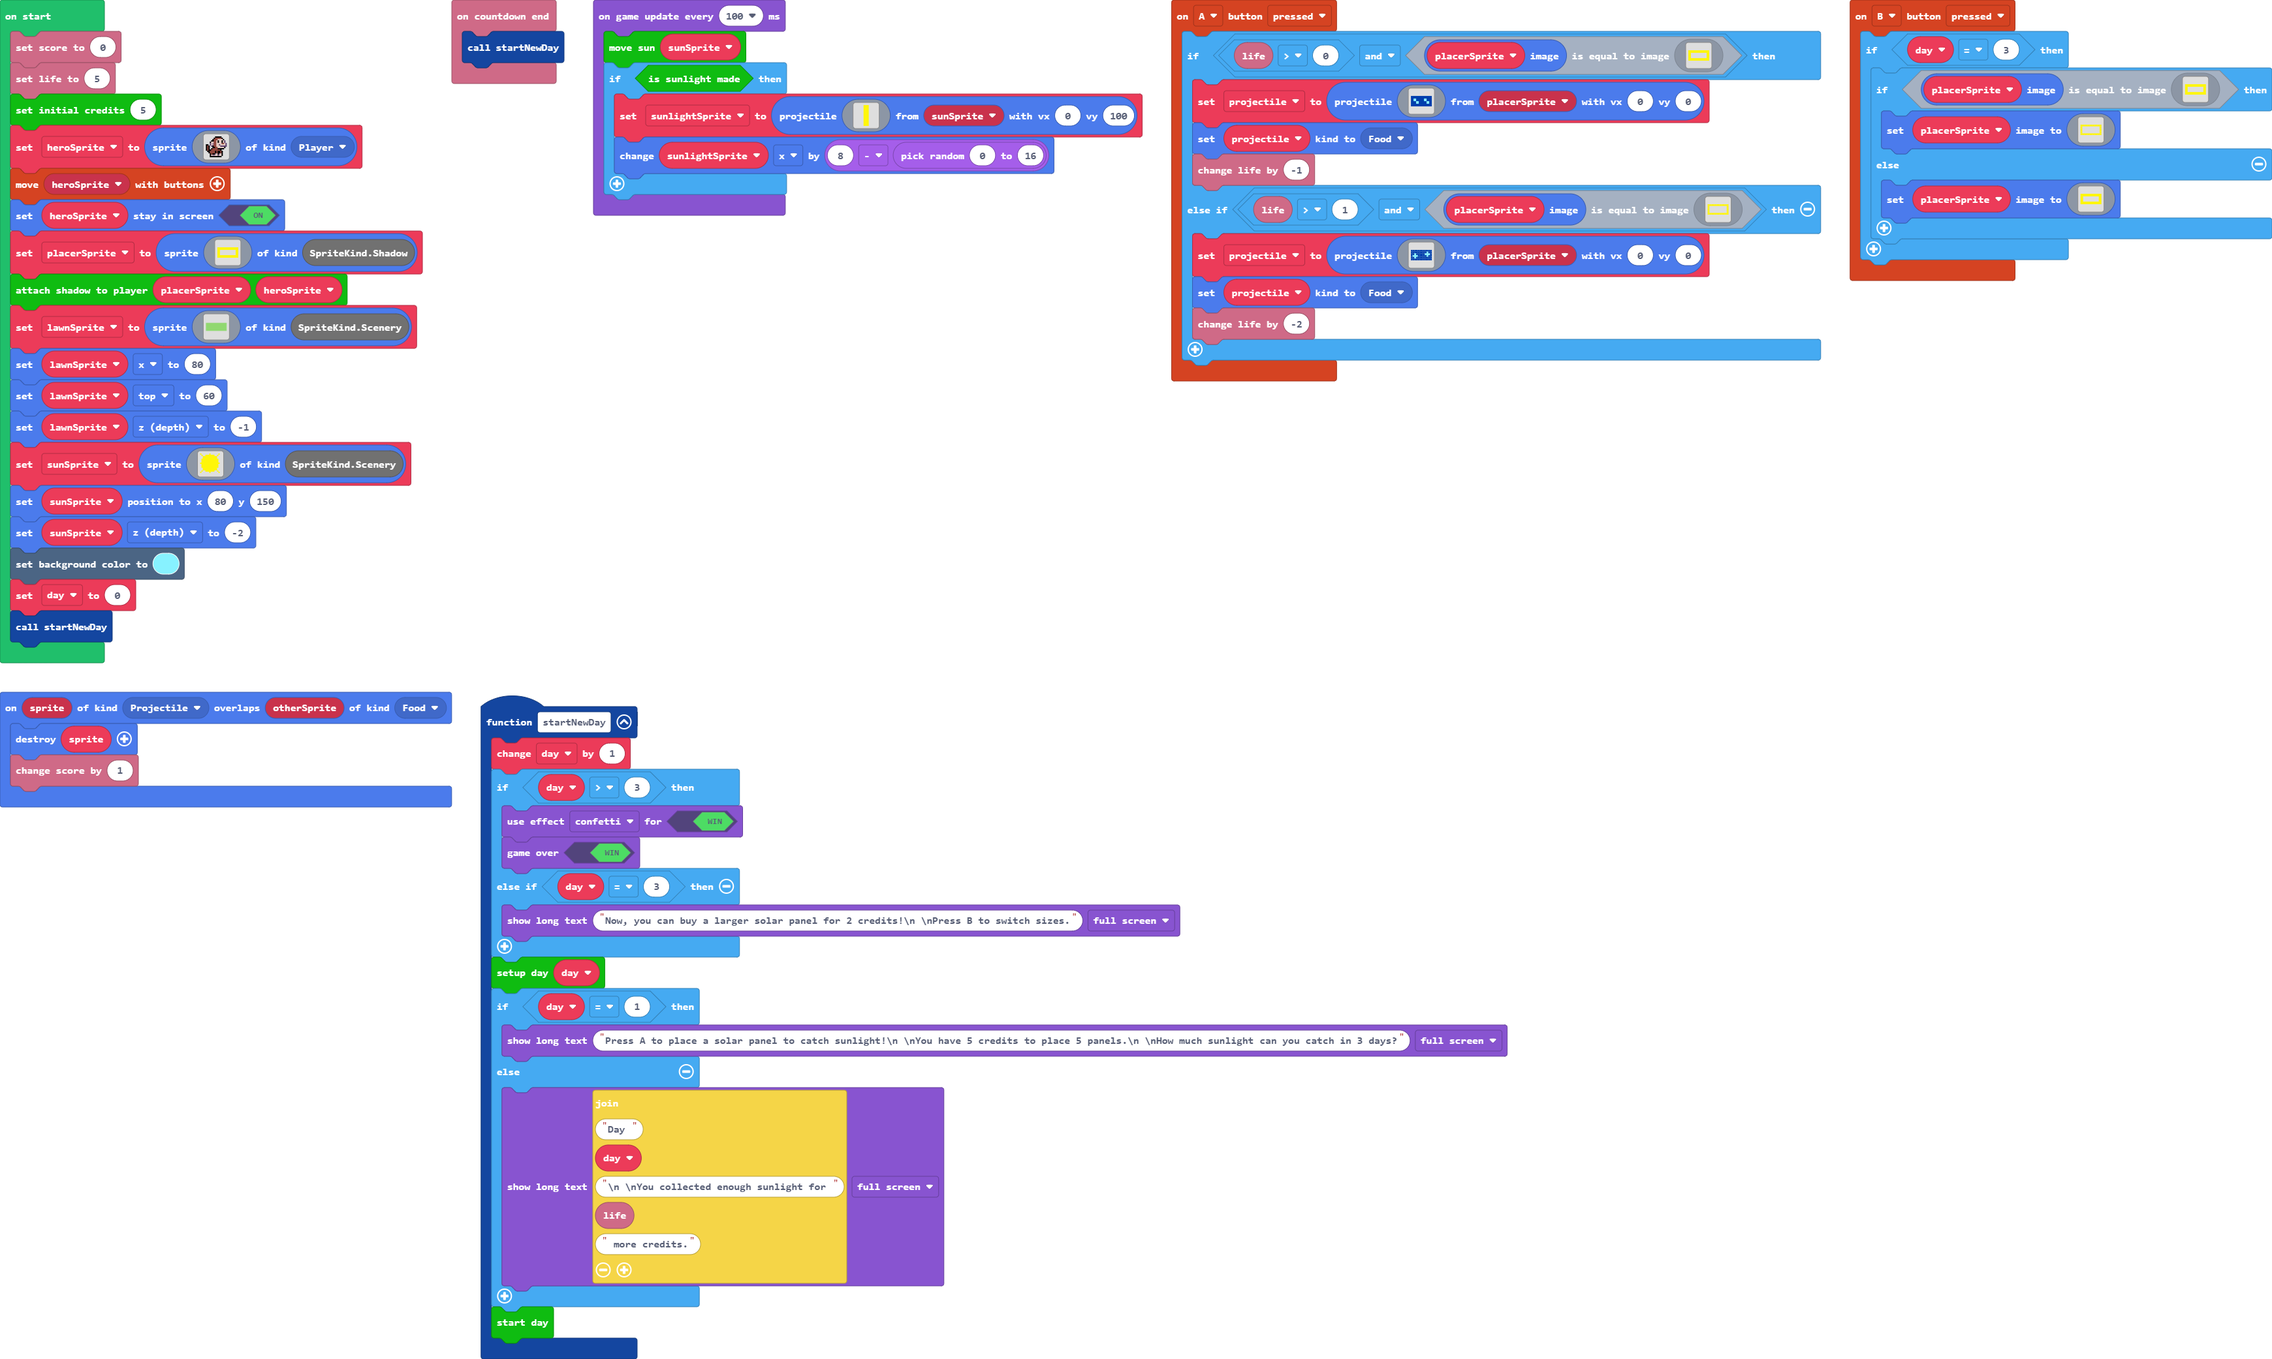
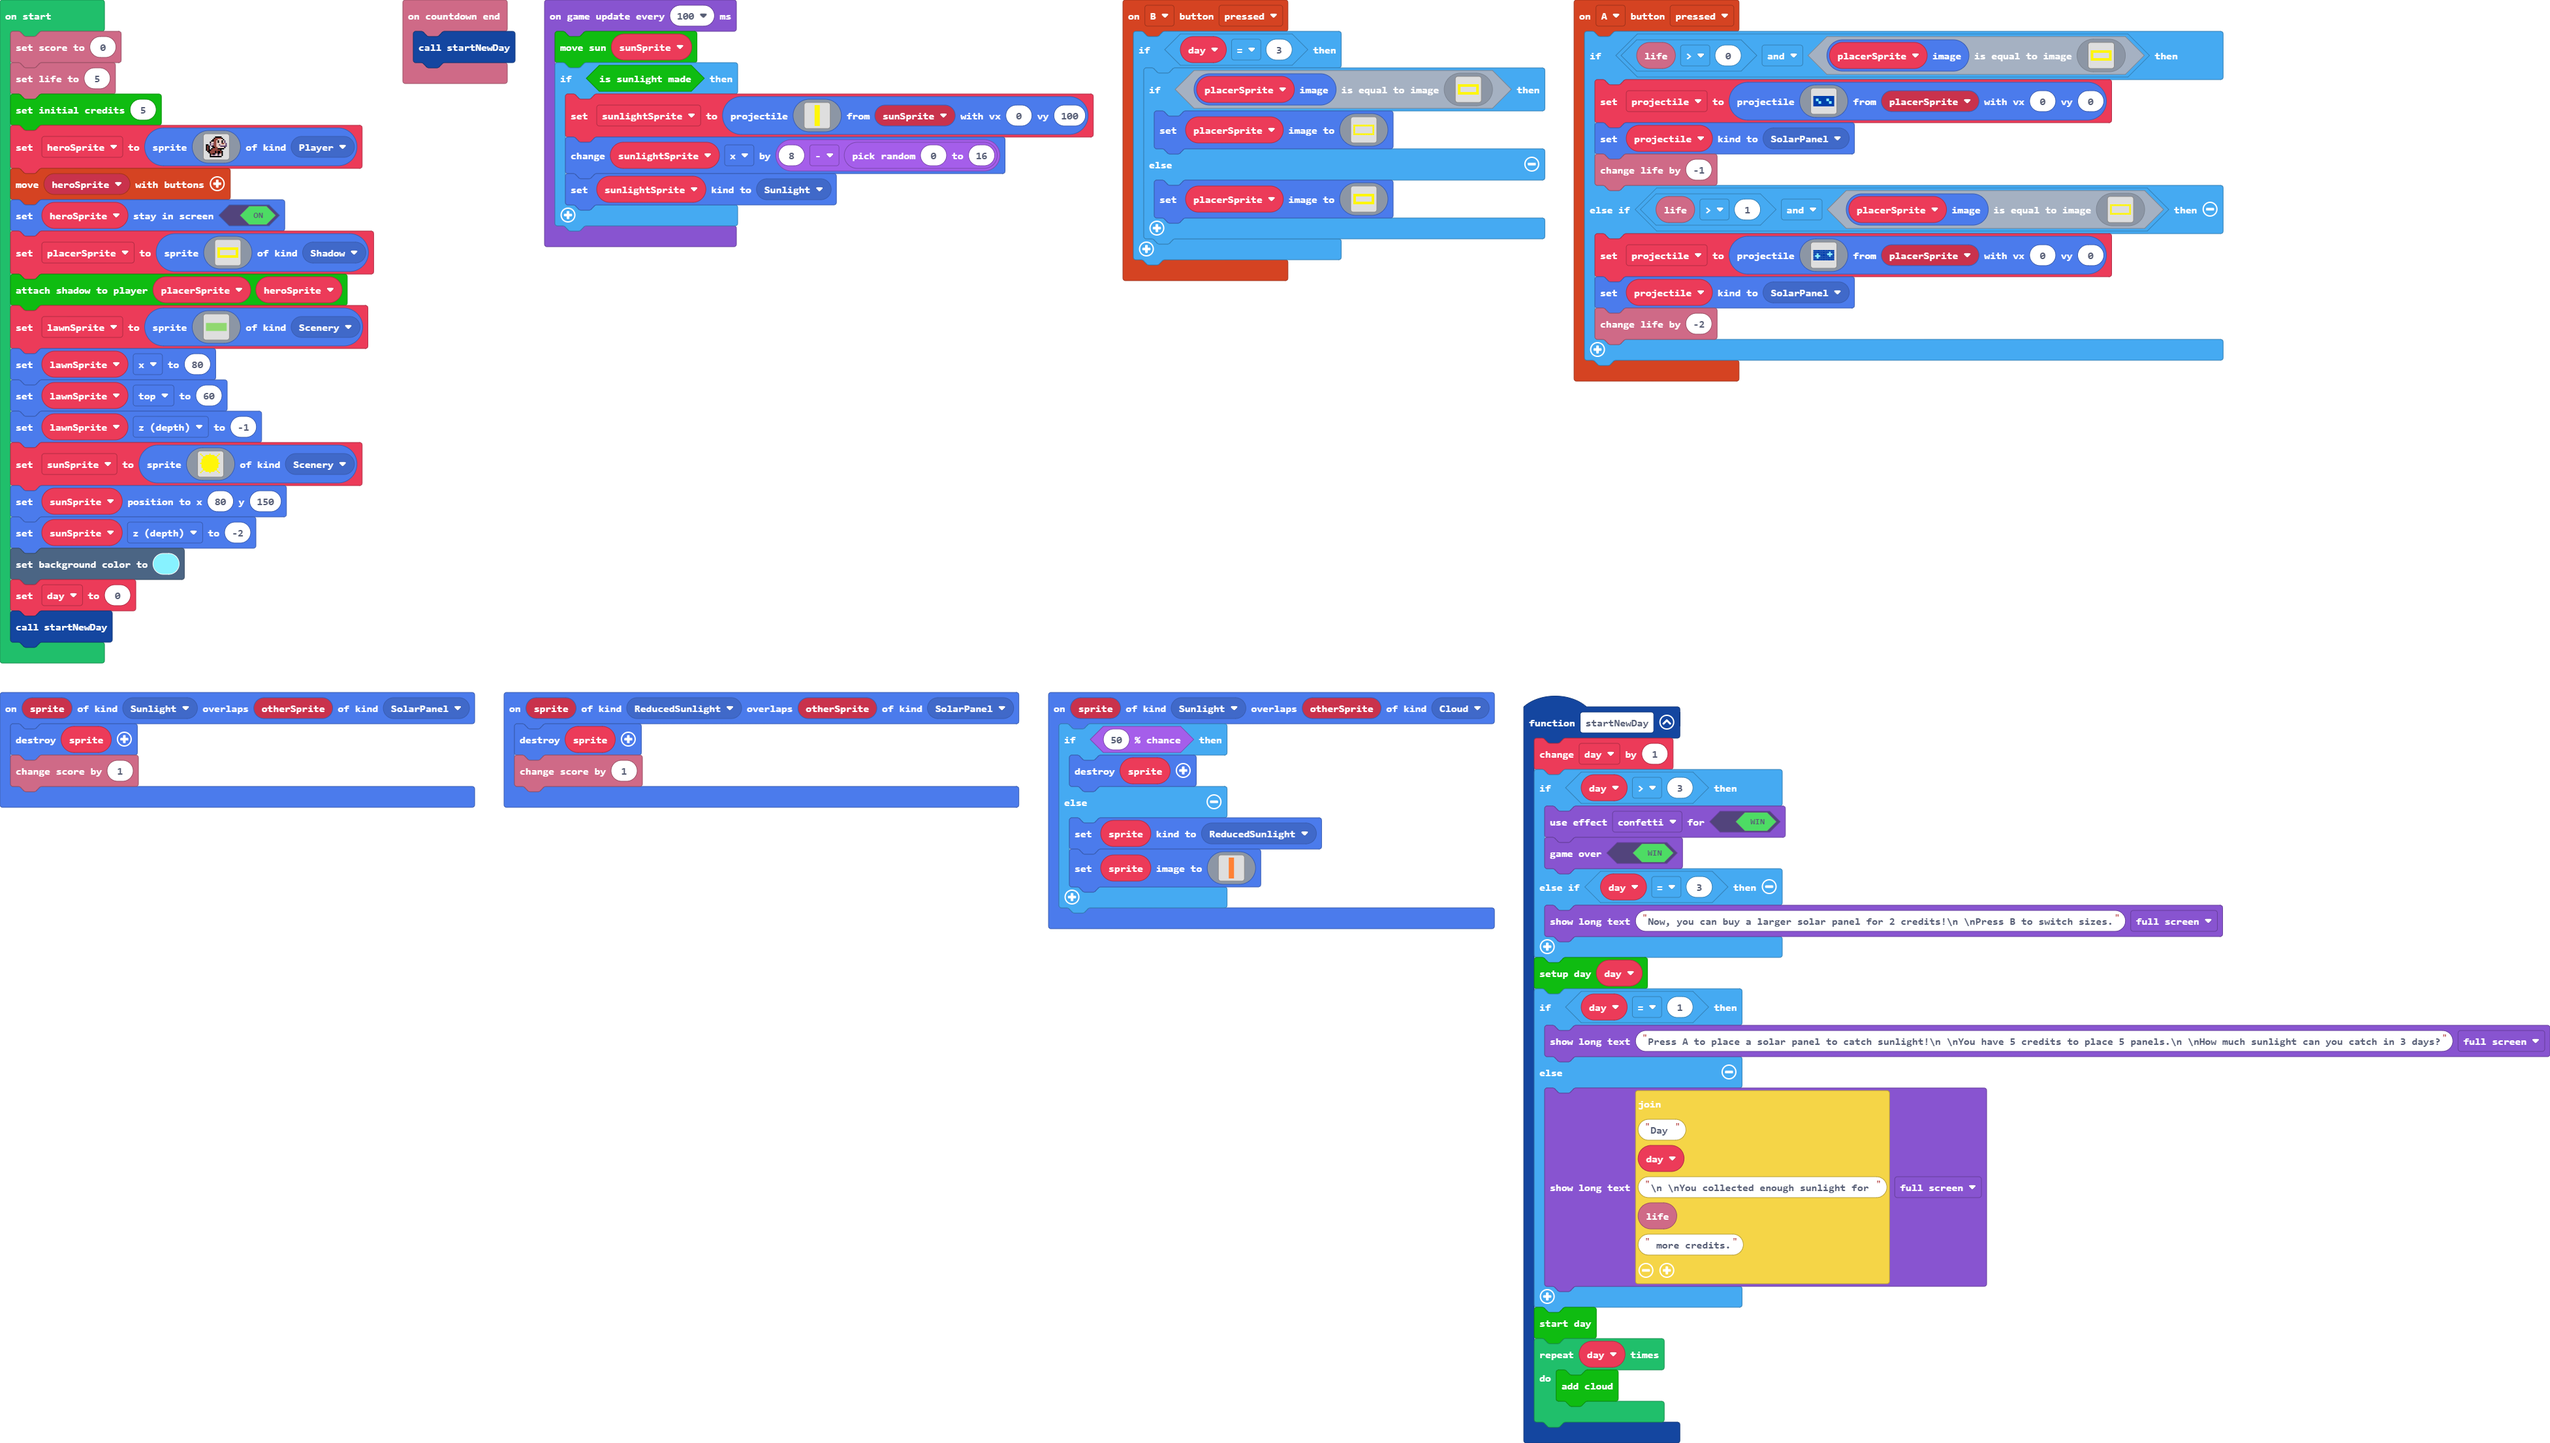
Add clouds.

diff --git a/main.ts b/main.ts
@@ -1,3 +1,15 @@
+namespace SpriteKind {
+    export const Scenery = SpriteKind.create()
+    export const Shadow = SpriteKind.create()
+    export const SolarPanel = SpriteKind.create()
+    export const Sunlight = SpriteKind.create()
+    export const Cloud = SpriteKind.create()
+    export const ReducedSunlight = SpriteKind.create()
+}
+sprites.onOverlap(SpriteKind.Sunlight, SpriteKind.SolarPanel, function (sprite, otherSprite) {
+    sprites.destroy(sprite)
+    info.changeScoreBy(1)
+})
 function startNewDay () {
     day += 1
     if (day > 3) {
@@ -13,11 +25,10 @@ function startNewDay () {
         game.showLongText("Day " + day + "\\n \\nYou collected enough sunlight for " + info.life() + " more credits.", DialogLayout.Full)
     }
     Solar.startDay()
+    for (let index = 0; index < day; index++) {
+        Solar.addCloud()
+    }
 }
-sprites.onOverlap(SpriteKind.Projectile, SpriteKind.Food, function (sprite, otherSprite) {
-    sprites.destroy(sprite)
-    info.changeScoreBy(1)
-})
 controller.B.onEvent(ControllerButtonEvent.Pressed, function () {
     if (day == 3) {
         if (placerSprite.image.equals(assets.image`smallPlacer`)) {
@@ -30,16 +41,28 @@ controller.B.onEvent(ControllerButtonEvent.Pressed, function () {
 controller.A.onEvent(ControllerButtonEvent.Pressed, function () {
     if (info.life() > 0 && placerSprite.image.equals(assets.image`smallPlacer`)) {
         projectile = sprites.createProjectileFromSprite(assets.image`smallPanel`, placerSprite, 0, 0)
-        projectile.setKind(SpriteKind.Food)
+        projectile.setKind(SpriteKind.SolarPanel)
         info.changeLifeBy(-1)
     } else if (info.life() > 1 && placerSprite.image.equals(assets.image`largePlacer`)) {
         projectile = sprites.createProjectileFromSprite(assets.image`largePanel`, placerSprite, 0, 0)
-        projectile.setKind(SpriteKind.Food)
+        projectile.setKind(SpriteKind.SolarPanel)
         info.changeLifeBy(-2)
     }
 })
 info.onCountdownEnd(function () {
     startNewDay()
+})
+sprites.onOverlap(SpriteKind.ReducedSunlight, SpriteKind.SolarPanel, function (sprite, otherSprite) {
+    sprites.destroy(sprite)
+    info.changeScoreBy(1)
+})
+sprites.onOverlap(SpriteKind.Sunlight, SpriteKind.Cloud, function (sprite, otherSprite) {
+    if (Math.percentChance(50)) {
+        sprites.destroy(sprite)
+    } else {
+        sprite.setKind(SpriteKind.ReducedSunlight)
+        sprite.setImage(assets.image`reducedSunlight`)
+    }
 })
 let sunlightSprite: Sprite = null
 let projectile: Sprite = null
@@ -146,5 +169,6 @@ game.onUpdateInterval(100, function () {
     if (Solar.isSunlightMade()) {
         sunlightSprite = sprites.createProjectileFromSprite(assets.image`sunlight`, sunSprite, 0, 100)
         sunlightSprite.x += 8 - randint(0, 16)
+        sunlightSprite.setKind(SpriteKind.Sunlight)
     }
 })

diff --git a/custom.ts b/custom.ts
@@ -1,8 +1,3 @@
-namespace SpriteKind {
-    export const Scenery = SpriteKind.create()
-    export const Shadow = SpriteKind.create()
-}
-
 info.onLifeZero(function () {
 
 })
@@ -62,5 +57,16 @@ namespace Solar {
     export function startDay() {
         runtimeStart = game.runtime()
         info.startCountdown(24)
+    }
+
+    //% block
+    export function addCloud() {
+        timer.background(function() {
+            pause(randint(1000, 12000))
+            let cloud: Sprite = sprites.create(assets.image`cloud`, SpriteKind.Cloud)
+            cloud.left = 160
+            cloud.y = randint(20, 50)
+            cloud.vx = -100
+        })
     }
 }

diff --git a/images.g.ts b/images.g.ts
@@ -61,6 +61,24 @@ namespace myImages {
 5 . . . . . . 5 . . . . . . 5 . 
 . . . . . . . . . . . . . . . . 
 `;
+            case "image7":
+            case "cloud":return img`
+. . c c c c c c c c c c c c . . 
+. c 1 1 1 1 1 1 1 1 1 1 1 1 c . 
+. . c 1 1 1 1 1 1 1 1 1 1 1 1 c 
+. . c 1 1 1 1 1 1 1 1 1 1 1 1 c 
+. c 1 1 1 1 1 1 1 1 1 1 1 1 1 c 
+c 1 1 1 1 1 1 1 1 1 1 1 1 1 c . 
+c 1 1 1 1 1 1 1 1 1 1 1 1 c . . 
+. c c c c c c c c c c c c . . . 
+`;
+            case "image8":
+            case "reducedSunlight":return img`
+4 
+4 
+4 
+4 
+`;
         }
         return null;
     })
